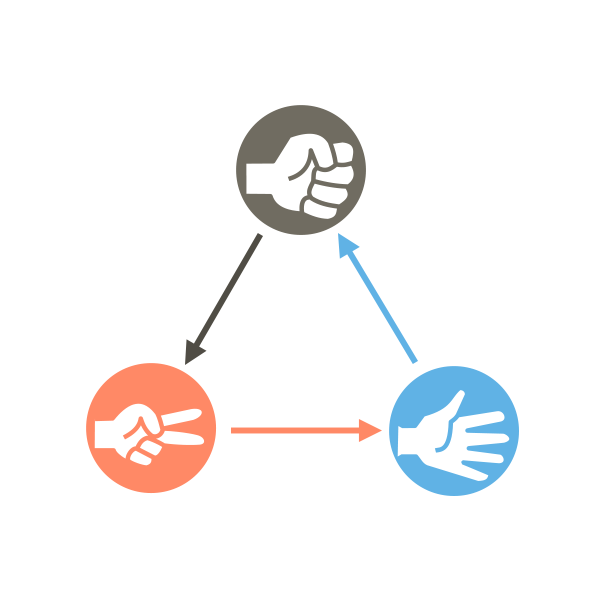
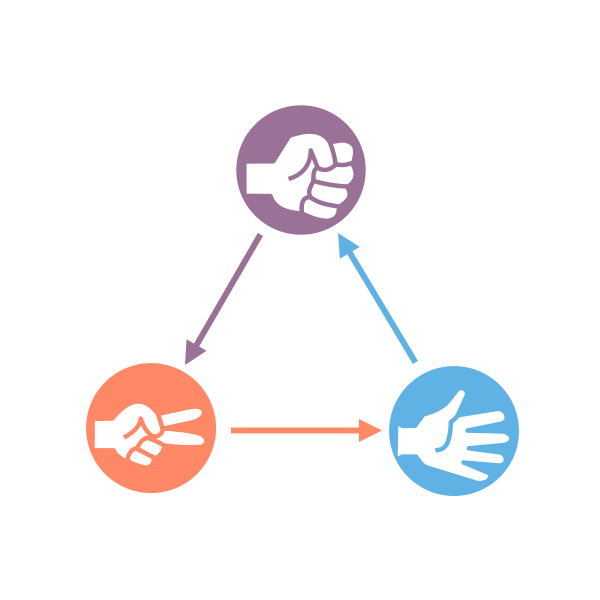
feat: Add ability to flow through an entire round

Changed region(s): [[0.39, 0.15, 0.63, 0.42], [0.3, 0.42, 0.42, 0.6]]

diff --git a/src/main.js b/src/main.js
@@ -8,10 +8,11 @@ var player1Score = document.getElementById('player-one-score');
 var player2Section = document.getElementById('player-two-section');
 var player2Name = document.getElementById('player-two-name');
 var player2Score = document.getElementById('player-two-score');
+var infoText = document.getElementById('info-text');
 var gameSelectorSection = document.getElementById('selection-section');
 var classicSelector = document.getElementById('classic-selection');
 var advancedSelector = document.getElementById('advanced-selection');
-var fightersSection = document.getElementById('fighters-selection')
+var fightersSection = document.getElementById('fighters-selection');
 
 window.addEventListener('load', function() {
     displayPlayerData();
@@ -27,6 +28,11 @@ advancedSelector.addEventListener('click', function() {
     displayFightersSection();
 });
 
+fightersSection.addEventListener('click', function(event) {
+    selectFighters(event);
+    startFightSequence();
+});
+
 function displayPlayerData() {
     player1Name.innerText = player1.name;
     player1Score.innerText = player1.wins;
@@ -37,15 +43,58 @@ function displayPlayerData() {
 function displayFightersSection() {
     hide(gameSelectorSection);
     addFighters();
+    setInfoText('Select Your Fighter!');
     show(fightersSection);
+    player1Section.style.backgroundColor = 'rgba(255, 255, 255, .2)';
+    player2Section.style.backgroundColor = 'rgba(255, 255, 255, .2)';
 }
 
 function addFighters() {
     var fighters = fightersData[game.gameMode];
     fightersSection.innerHTML = '';
     for(var i = 0; i < fighters.length; i++) {
-        fightersSection.innerHTML += `<img class="fighter" src="${fighters[i].img}" alt="${fighters[i].id} fighter" />`
+        fightersSection.innerHTML += `<img draggable="false" class="fighter" data-fighter-index="${i}" src="${fighters[i].img}" alt="${fighters[i].id} fighter" />`
     }
+}
+
+function selectFighters(event) {
+    var fighterIndex = event.target.dataset.fighterIndex;
+    var player1Fighter = player1.takeTurn(game.gameMode, fighterIndex);
+    var player2Fighter = player2.takeTurn(game.gameMode);
+    game.setFighters(player1Fighter, player2Fighter);
+}
+
+function startFightSequence() {
+    displayPlayer1Selection();
+    setTimeout(function() {
+        displayPlayer2Selection();
+        var result = game.playRound();
+        var f1 = game.gameData.player1Fighter.id;
+        var f2 = game.gameData.player2Fighter.id;
+        setInfoText(`${f1} vs ${f2}\n${result}`);
+        displayPlayerData();
+        setTimeout(function() {
+            displayFightersSection();
+        }, 2500);
+    },1000);
+}
+
+function displayPlayer1Selection() {
+    var fighter = game.gameData.player1Fighter;
+    setInfoText(`${player1.name} picked ${fighter.id}!`);
+    player1Section.style.backgroundColor = fighter.color + '90';
+    fightersSection.innerHTML = '';
+    fightersSection.innerHTML += `<img draggable="false" class="fighter" src="${fighter.img}" alt="${fighter.id} fighter"/>`
+}
+
+function displayPlayer2Selection() {
+    var fighter = game.gameData.player2Fighter;
+    player2Section.style.backgroundColor = fighter.color + '90';
+    fightersSection.innerHTML += `<img draggable="false" class="fighter" src="${fighter.img}" alt="${fighter.id} fighter"/>`
+}
+
+function setInfoText(text) {
+    infoText.innerText = text;
 }
 
 function show(element) {

diff --git a/index.html b/index.html
@@ -9,7 +9,7 @@
 </head>
 
 <body class="pattern-background">
-    <aside id="player-one-section" class="side-panel side-panel-left frosted">
+    <aside style="background-color:rgba(255, 255, 255, .2)" id="player-one-section" class="side-panel side-panel-left">
         <img src="./assets/human/joy.png" alt="Robot neutral" />
         <p id="player-one-name">Human</p>
         <p>Wins: <span id="player-one-score">0</span></p>
@@ -19,17 +19,17 @@
         <section id="selection-section" class="game-selection-section">
             <div id="classic-selection" class="game-selector frosted">
                 <h3>Classic</h3>
-                <img src="./assets/rules/classic.png">
+                <img draggable="false" src="./assets/rules/classic.png">
             </div>
             <div id="advanced-selection" class="game-selector frosted">
                 <h3>Advanced</h3>
-                <img src="./assets/rules/advanced.png">
+                <img draggable="false" src="./assets/rules/advanced.png">
             </div>
         </section>
         <section id="fighters-selection" class="fighters-area hidden">
             <!-- fighters placeholder -->
         </section>
-        <p>Select Game Mode!</p>
+        <p id="info-text">Select Game Mode!</p>
     </main>
     <aside id="player-two-section" class="side-panel side-panel-right frosted">
         <img src="assets/robot/smile.png" alt="Robot neutral" />

diff --git a/src/data.js b/src/data.js
@@ -3,7 +3,7 @@ var fightersData = {
         {
             id: "Rock",
             img: "assets/fighters/classic/rock.svg",
-            color: '#706C61',
+            color: '#9A7197',
             beats:["Scissors"]
         },
         {
@@ -23,31 +23,31 @@ var fightersData = {
         {
             id: "Water",
             img: "assets/fighters/advanced/water.svg",
-            color: '#706C61',
+            color: '#4B84AD',
             beats:["Fire", "Plant"]
         },
         {
             id: "Fire",
             img: "assets/fighters/advanced/fire.svg",
-            color: '#706C61',
+            color: '#A72608',
             beats:["Plant", "Psychic"]
         },
         {
             id: "Plant",
             img: "assets/fighters/advanced/plant.svg",
-            color: '#706C61',
+            color: '#06D6A0',
             beats:["Psychic", "Electric"]
         },
         {
             id: "Psychic",
             img: "assets/fighters/advanced/psychic.svg",
-            color: '#706C61',
+            color: '#B47EB3',
             beats:["Electric", "Water"]
         },
         {
             id: "Electric",
             img: "assets/fighters/advanced/electric.svg",
-            color: '#706C61',
+            color: '#FFD166',
             beats:["Water", "Fire"]
         }
     ]

diff --git a/styles.css b/styles.css
@@ -30,7 +30,8 @@ body {
     justify-content: center;
     align-items: center;
     flex-basis: 15%;
-    background-color: rgba(255, 255, 255, .2);
+    backdrop-filter: blur(4px);
+    /* background-color: rgba(255, 255, 255, .2); */
     filter: drop-shadow(2px 0px 8px rgb(0,0,0));
     padding: 3vw;
 }
@@ -67,7 +68,7 @@ main {
     display: flex;
     flex-direction: column;
     justify-content: space-between;
-    align-items: center;
+    align-items: stretch;
     padding: 3.5vh;
 }
 
@@ -85,6 +86,7 @@ main p {
     justify-content: center;
     font-size: 2vw;
     height: 12vh;
+    text-align: center;
 }
 
 .game-selection-section {
@@ -116,7 +118,7 @@ main p {
 
 .game-selector img {
     max-width: 90%;
-    max-height: 90%
+    max-height: 90%;
 }
 
 .game-selector > h3 {
@@ -127,15 +129,17 @@ main p {
 
 .fighters-area {
     display: flex;
+    gap: 4vmin;
+    flex-wrap: wrap;
     align-items: center;
     justify-content: center;
-    gap: 5%;
-    width: 100%;
     height: 34vw;
+    padding-left: 10vw;
+    padding-right: 10vw;
 }
 
 .fighter{
-    width: 20%;
+    width: 25vmin;
     cursor: pointer;
     transition: filter .3s, scale .3s;
     border-style: solid;

diff --git a/src/game.js b/src/game.js
@@ -19,7 +19,7 @@ class Game {
         var fighter2 = this.gameData.player2Fighter;
 
         if(fighter1.id === fighter2.id) {
-            return 'DRAW!'
+            return 'Its a Draw!'
         }
         if(fighter1.beats.includes(fighter2.id)){
             this.player1.wins++;
